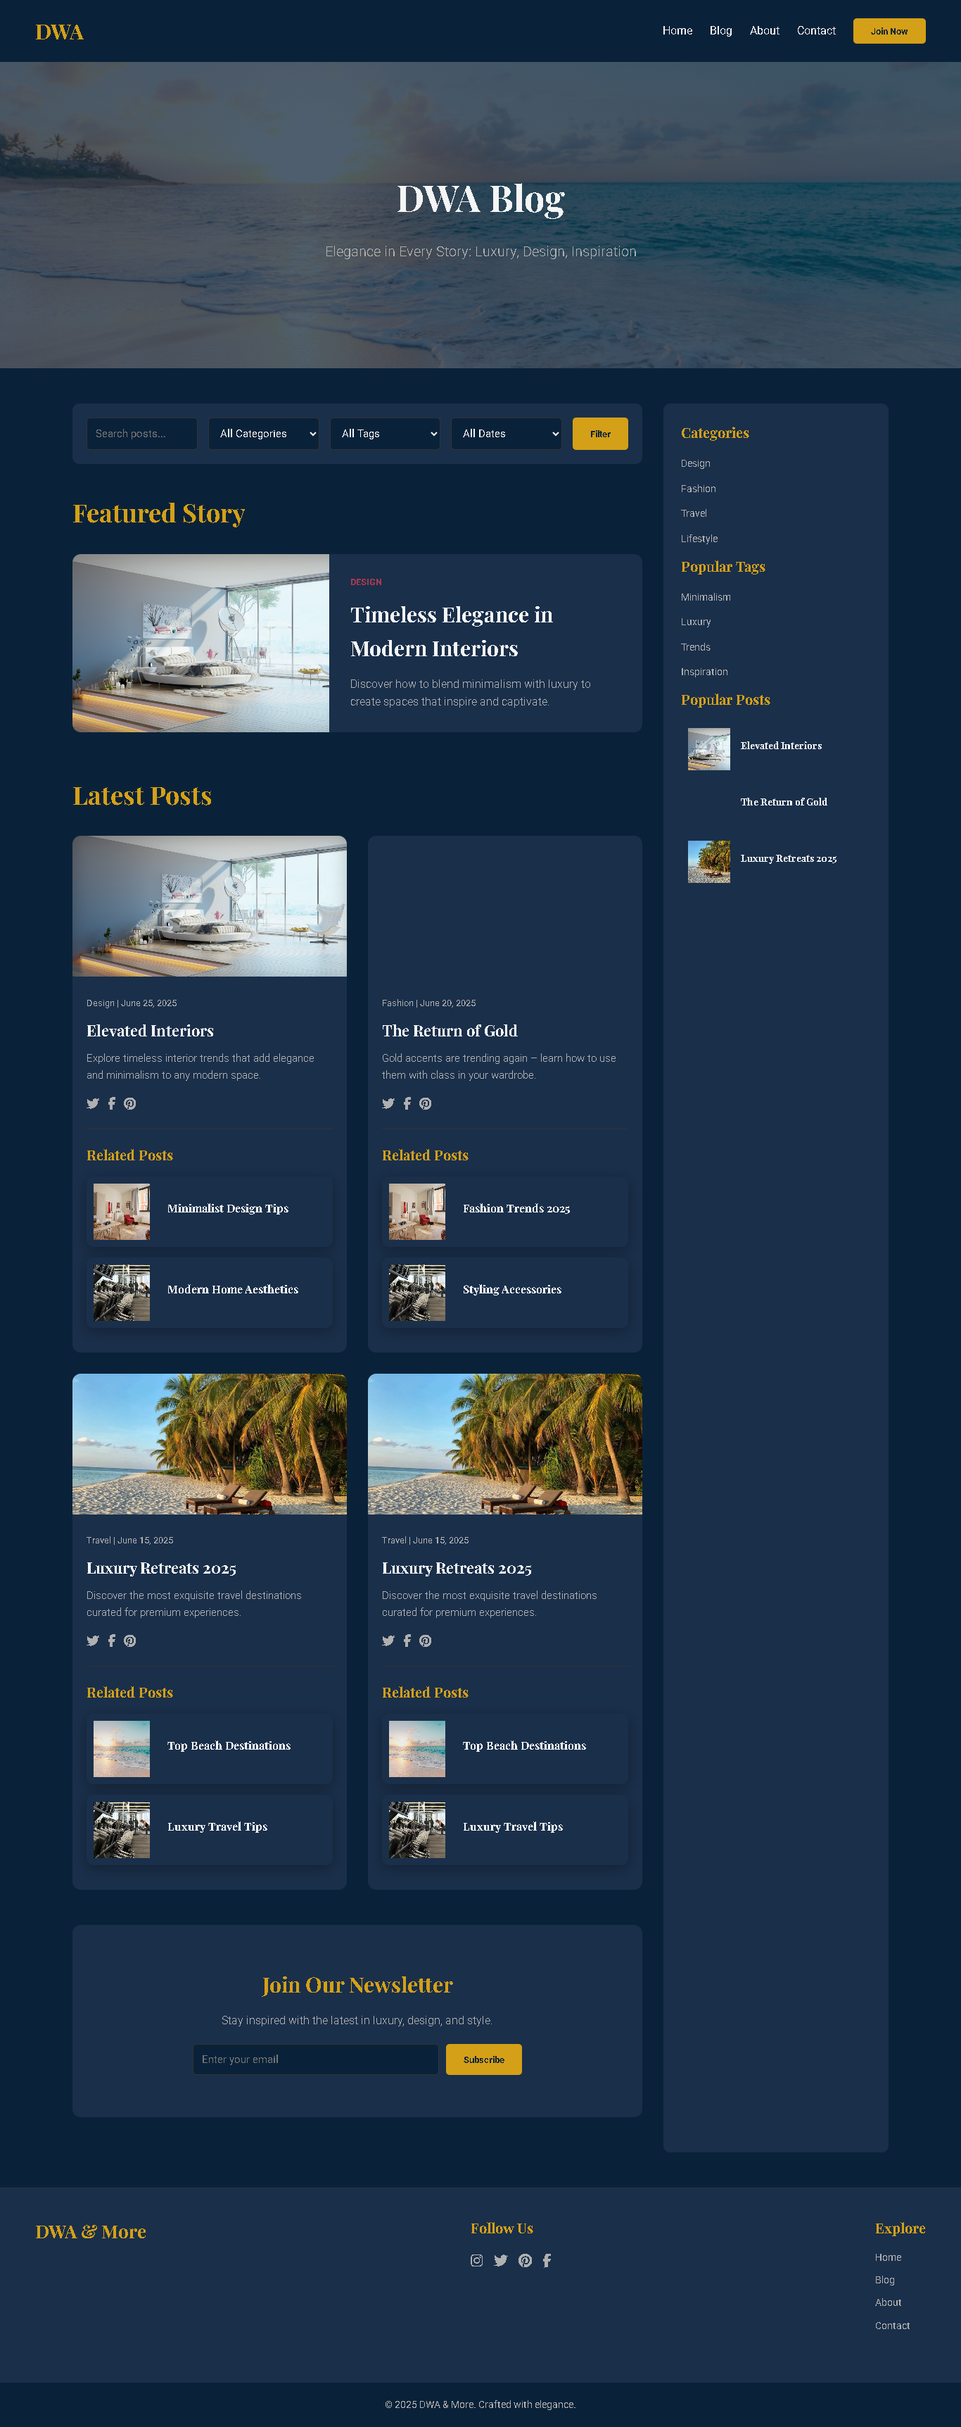
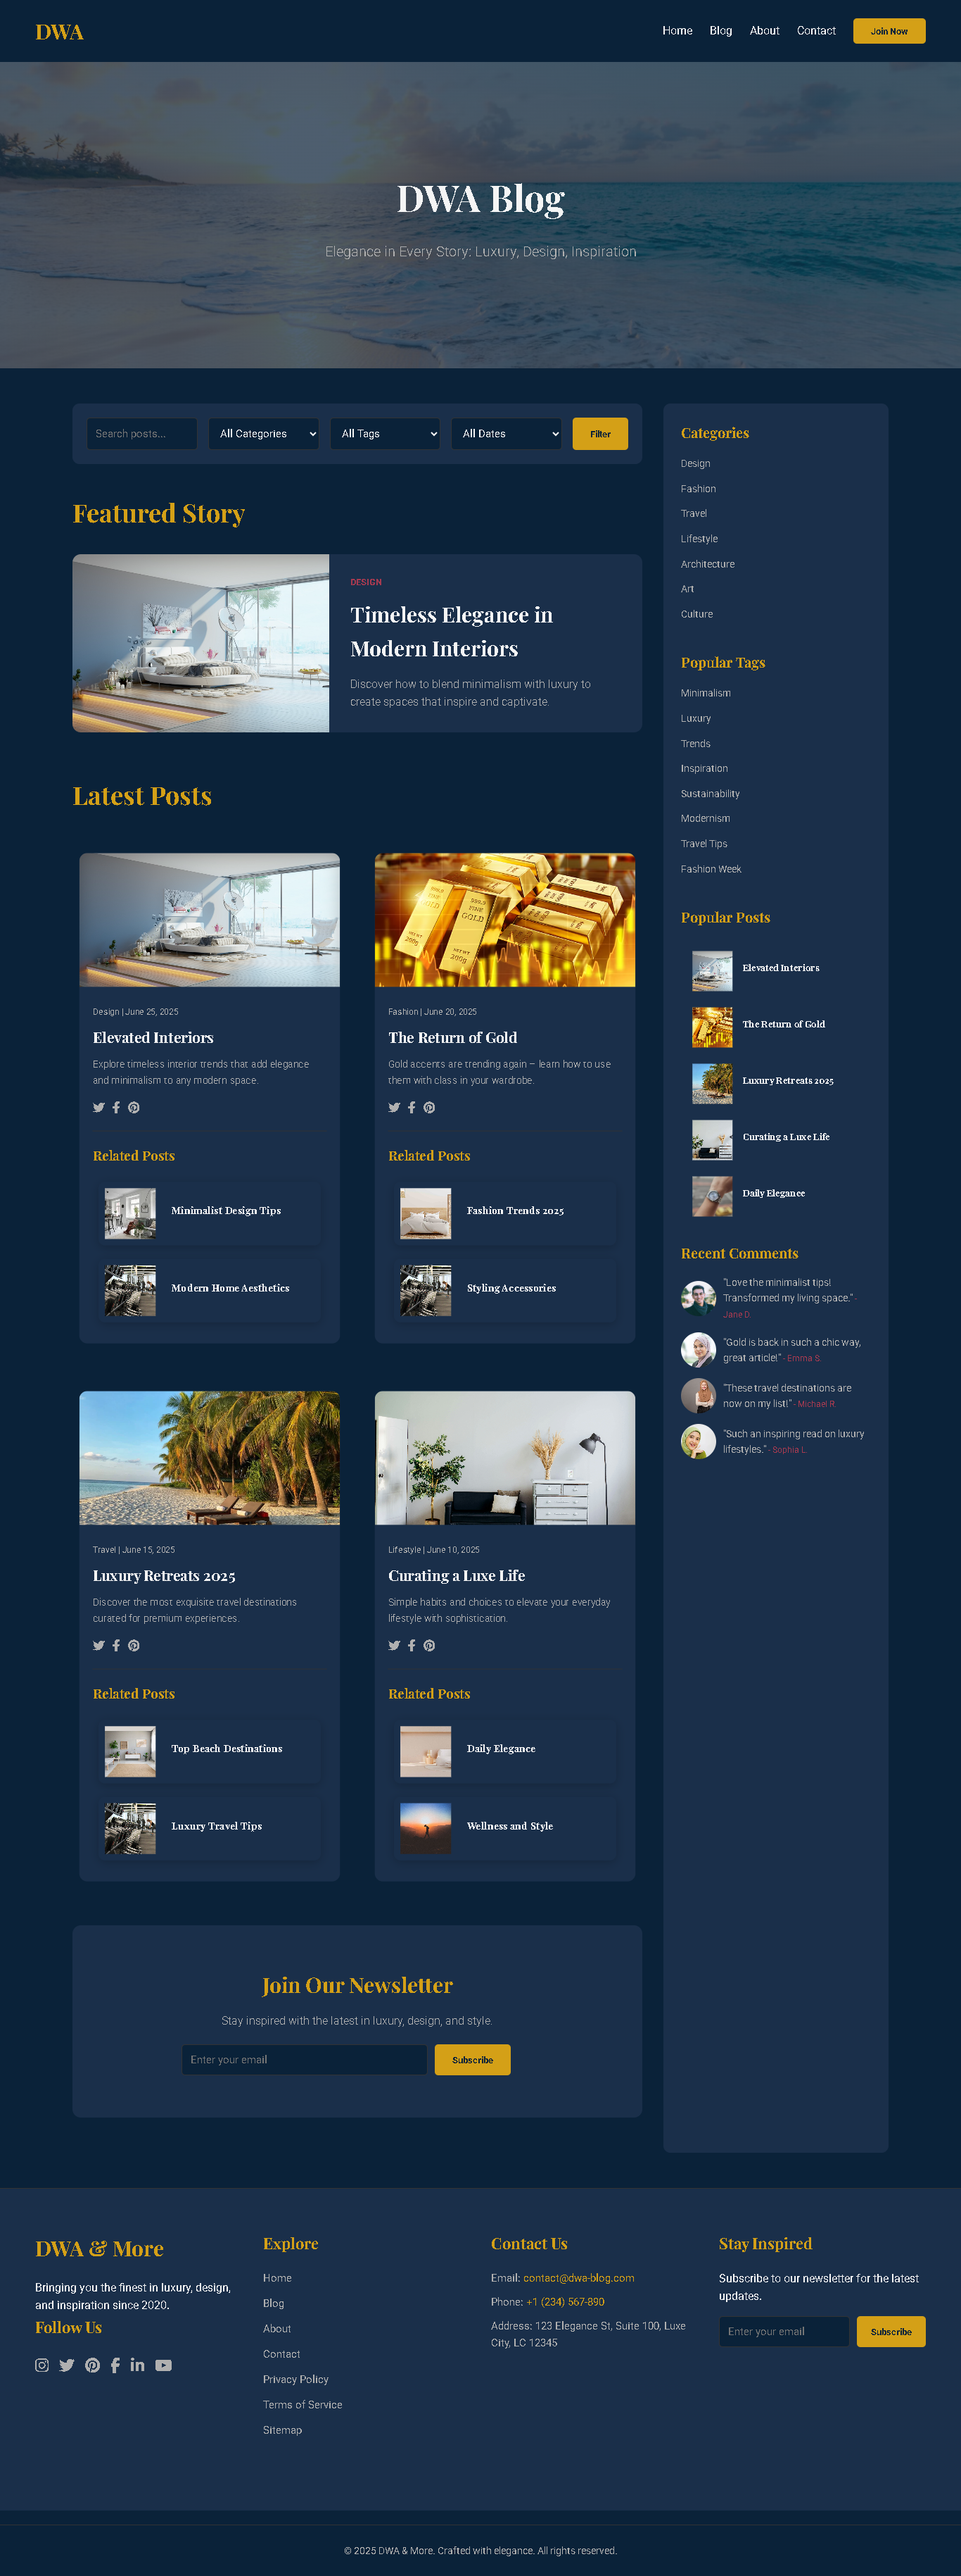
update 2

diff --git a/index.html b/index.html
@@ -1084,7 +1084,7 @@
           </div>
         </div>
         <div class="blog-card">
-          <img src="https://encrypted-tbn0.gstatic.com/images?q=0GcT7UP_JrsI-gy20CQUkHCR3mBTsTKowesYyFw&s" alt="Popular 2">
+          <img src="https://media.fortuneindia.com/fortune-india/2025-05-08/wjbxc7zt/shutterstock2524883205768388817899.jpeg?w=640&auto=format,compress&fit=max&q=70" alt="Popular 2">
           <div class="blog-content">
             <h3>The Return of Gold</h3>
           </div>
